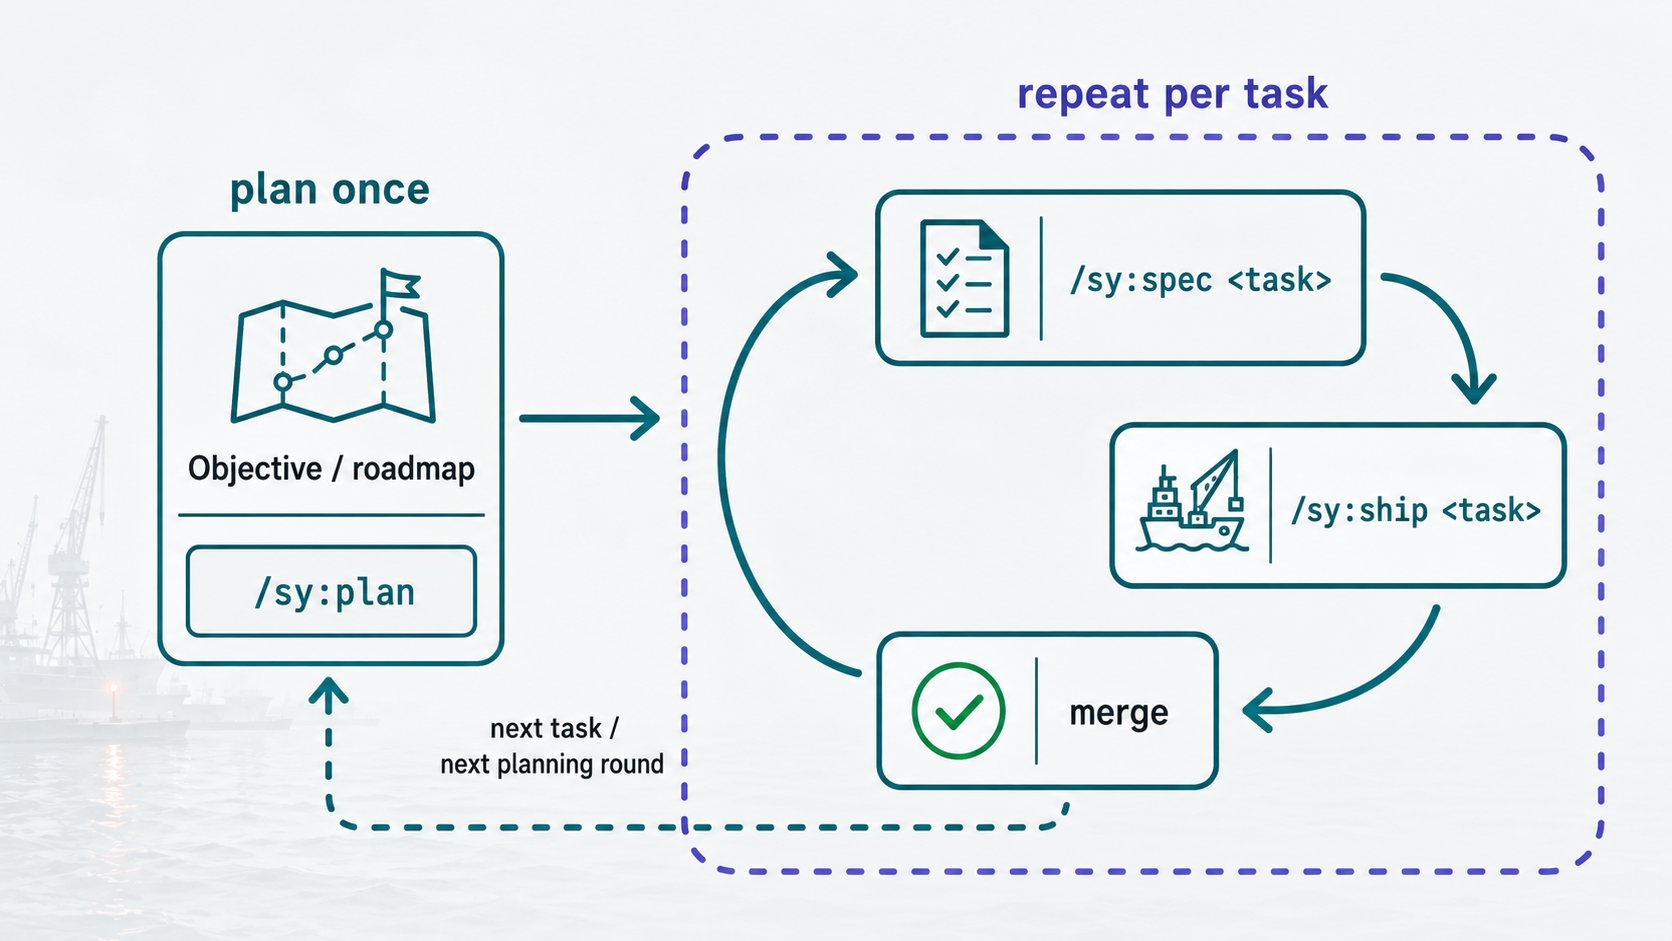
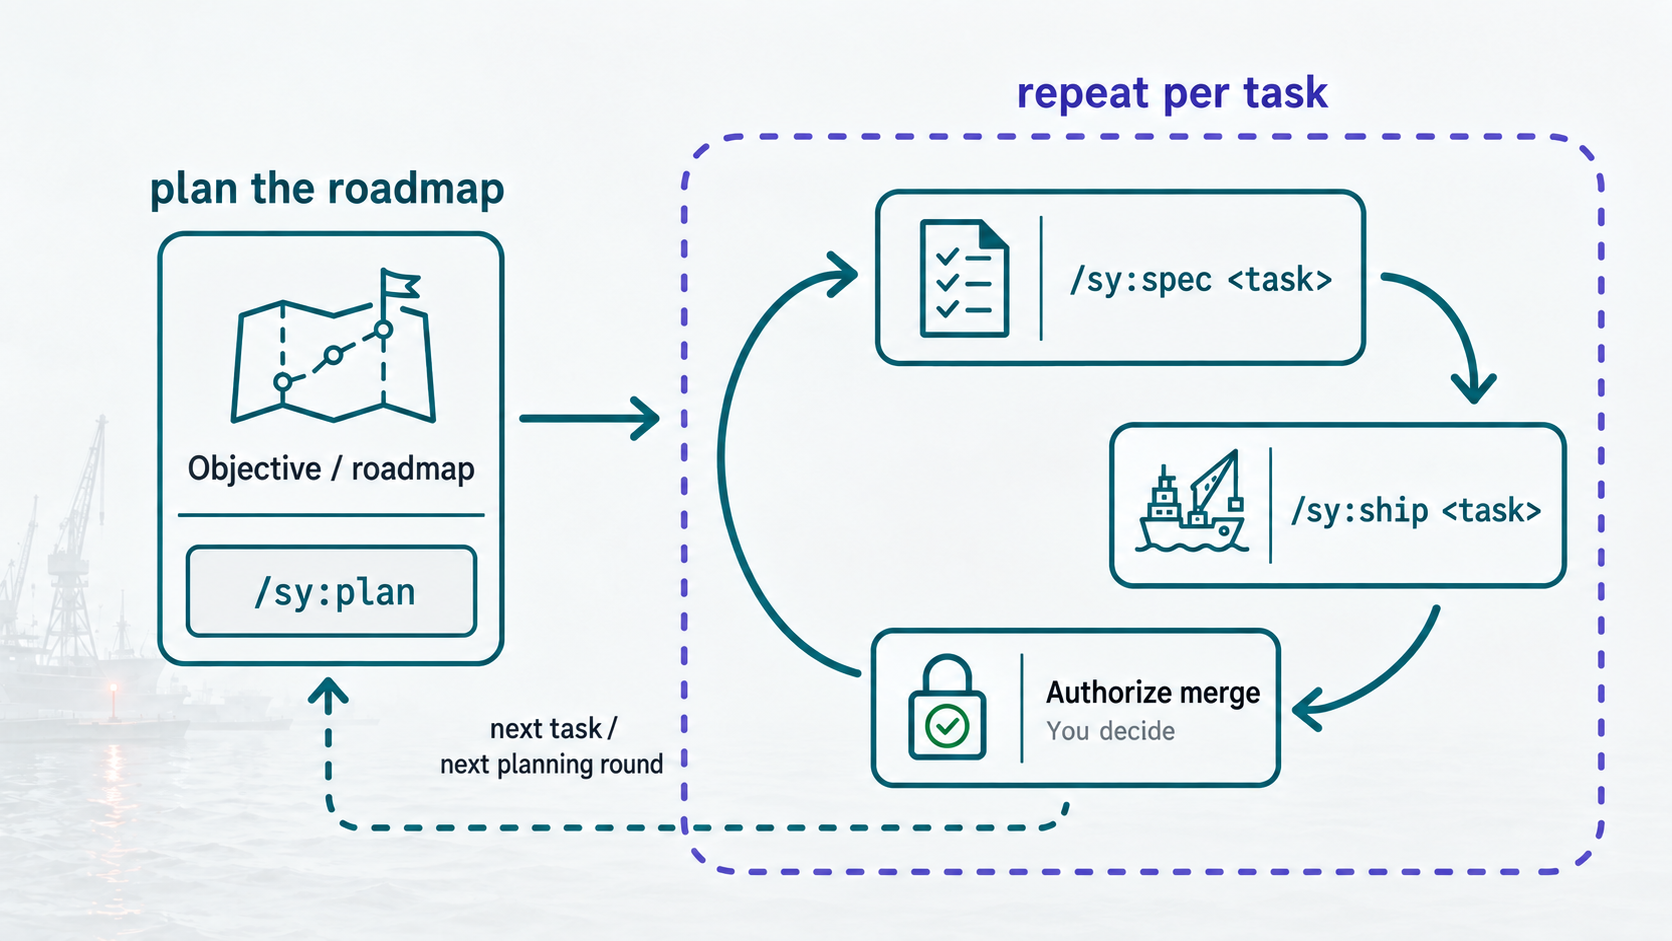
chore - Correct the README diagrams (#39)
* chore Correct the README diagrams against the current workflow

* chore Name the active-task cap's config key instead of its default in the roadmap alt text

---------

diff --git a/README.md b/README.md
@@ -1,4 +1,4 @@
-![Shipyard: a roadmap plotted once, above a dry dock that repeats plan → build → launch per task](docs/img/background_1.png)
+![Shipyard harbour: /sy:plan → /sy:spec → /sy:ship](docs/img/background_1.png)
 
 # Shipyard — `/sy:plan → /sy:spec → /sy:ship`
 
@@ -14,7 +14,7 @@ Help me install and configure Shipyard in this repo. Read https://raw.githubuser
 
 Point Shipyard at a task and it produces a PR that is ready to merge: the change is built to an approved plan, CI is green, and an independent reviewer has signed off on the exact commits you are about to merge. Alongside the PR, the ticket carries the full paper trail — the plan it was built against, a retrospective, token and outcome logs, and the session transcript — so the "why" survives long after the diff is gone. Only you merge, and nothing merges without your explicit word.
 
-![The delivery loop](docs/img/delivery-loop.png)
+![Plan the roadmap, then repeat spec, ship, and user-authorized merge per task](docs/img/delivery-loop.png)
 
 ## Why it works this way
 
@@ -22,7 +22,7 @@ Two convictions shape everything, and both exist to earn your trust in the outpu
 
 **The review is adversarial, and it reviews exactly what you'll merge.** A separate `sy:gate` agent — running on a frontier-tier model, in its own read-only checkout pinned to the pushed commits — reviews the plan's obligations and design invariants, not just the diff, and every bug it suspects must survive an attempt to refute it before it is reported. If a fix is pushed, the review scope resets: the PR head, the CI-green commit, and the reviewed commit must be the *same commit* before anything hands off or merges. You are never reviewing one thing and merging another.
 
-![The immutable review gate](docs/img/immutable-gate.png)
+![The GATE controller coordinates CI, independent immutable review, and fixes until the same commit is ready for handoff](docs/img/immutable-gate.png)
 
 **Context holds decisions, not noise.** Reading fifty files to answer one question is fine — but it happens inside a disposable agent, and what comes back is a short brief of pointers backed by checkable evidence, not the raw transcript. The orchestrator stays clear-headed across a long build because it holds compact briefs rather than everything it read. In practice that means sharper decisions late in a task, not just a cheaper one.
 
@@ -52,27 +52,27 @@ Two convictions shape everything, and both exist to earn your trust in the outpu
 
 `/sy:plan` interviews you through `AskUserQuestion`, one question or a small batch at a time, maps the code with read-only agents, and writes a living roadmap onto one Epic. Executable work becomes direct child tasks, each sized to one coherent PR; at most a configured cap (`plan.max_active_tasks`) are active at once, and everything further out stays as text until it is close enough to spec. Before the ladder is built, the roadmap's shape goes through a bounded proposer/adversary debate — every time, not only when the shape looks contested — and you steer the disagreement rather than the plan quietly picking one. Re-enter with `/sy:plan <epic>` to read what shipped and reshape the roadmap.
 
-![The roadmap model](docs/img/jira-roadmap.png)
+![One Epic contains PR-sized child tasks; a configured cap (`plan.max_active_tasks`) limits how many are active, and future work stays as text](docs/img/jira-roadmap.png)
 
 ### Spec
 
 `/sy:spec <task>` reads the ticket and the code, resolves the repo's engineering standards, and writes a complete plan: the approach and the strongest rejected alternative (pressure-tested by the same proposer/adversary debate, which runs on every plan before sign-off), ordered changes with file anchors, tests and acceptance criteria, and a verification obligation — a claim plus the named evidence that will prove it — for every risk lens the work activates. Before you see it, a separate `sy:spec-gate` reviewer reads the drafted plan for architecture, simplicity and correctness, and for the three things plans quietly omit: which docs the change makes stale, which figures or screenshots need a visual check, and whether a human should look at the result before the independent reviewer does. What you are then asked to approve is a short prose summary — the judgment calls, not the file inventory; the full mechanical plan lands on the ticket as the newest plan version, stamped with the commit it was planned against, once you have said yes. Not every spec ends in a plan: when research shows the premise is already delivered, invalidated, or superseded, spec shelves the task with evidence instead of building on a premise that no longer holds.
 
-![Verification obligations](docs/img/verification-obligations.png)
+![Draft a plan with verification obligations, review it with sy:spec-gate, then obtain user approval](docs/img/verification-obligations.png)
 
 ### Ship
 
 `/sy:ship <task>` builds the approved plan to a reviewable PR. It branches from fresh `origin/main` into its own worktree, implements the plan in order, discharges each verification obligation with its named evidence, gets CI green, pauses for your look first when the plan declared a pre-gate checkpoint, and runs the immutable gate above. When head, CI-green, and reviewed commits converge, it posts the evidence, moves the task to `in-review`, and stops. You merge; then what shipped feeds the next planning round.
 
-![The ship dispatcher](docs/img/ship-states.png)
+![The /sy:ship dispatcher owns state and user decisions; disposable START, BUILD, and GATE workers prepare a reviewable PR](docs/img/ship-states.png)
 
-The diagram shows phase-level sequencing only; it omits every parent-level pause along the way — this one, the START profile guard, `needs-decision` resolution, merge authorization — so a plan that declares no checkpoint runs exactly the arrows shown, and one that does still shows as a plain BUILD→GATE arrow here.
+Arrows show phase order; `/sy:ship` dispatches every worker and owns the optional human checkpoint, handoff, and merge authorization. Within GATE, `sy:ship-gate` coordinates CI, independent `sy:gate` review, and fixes in the build worktree. A new commit requires fresh CI and review coverage. Other decision and escalation paths are omitted.
 
 ## Under the hood
 
 The workflow skills stay small and delegate expensive reads and builds to a fleet of specialist agents, each in its own context with its own model, each returning a compact brief. `/sy:ship` in particular runs each phase — start, build, gate — as a disposable worker, so the orchestrator owns only the durable state and the conversation with you, while the heavy lifting happens in fresh contexts that never accumulate.
 
-![The agent fleet](docs/img/agent-fleet.png)
+![Workflow skills delegate work to specialist agents, which return compact briefs with evidence; ship workers are internal agents, not user commands](docs/img/agent-fleet.png)
 
 The issue tracker is the one pluggable part. Core skills and agents speak a single [tracker contract](skills/tracker/CONTRACT.md) — canonical verbs, five lifecycle statuses (named per repo), and canonical types — and a thin adapter maps that to Jira or to GitHub Projects. The `tracker` config key selects one, and a validator keeps tracker-specific vocabulary out of every core file. The GitHub tracker needs **no organization**: it drives issue Type and Status as Projects v2 fields, which work the same on a personal board.
 
